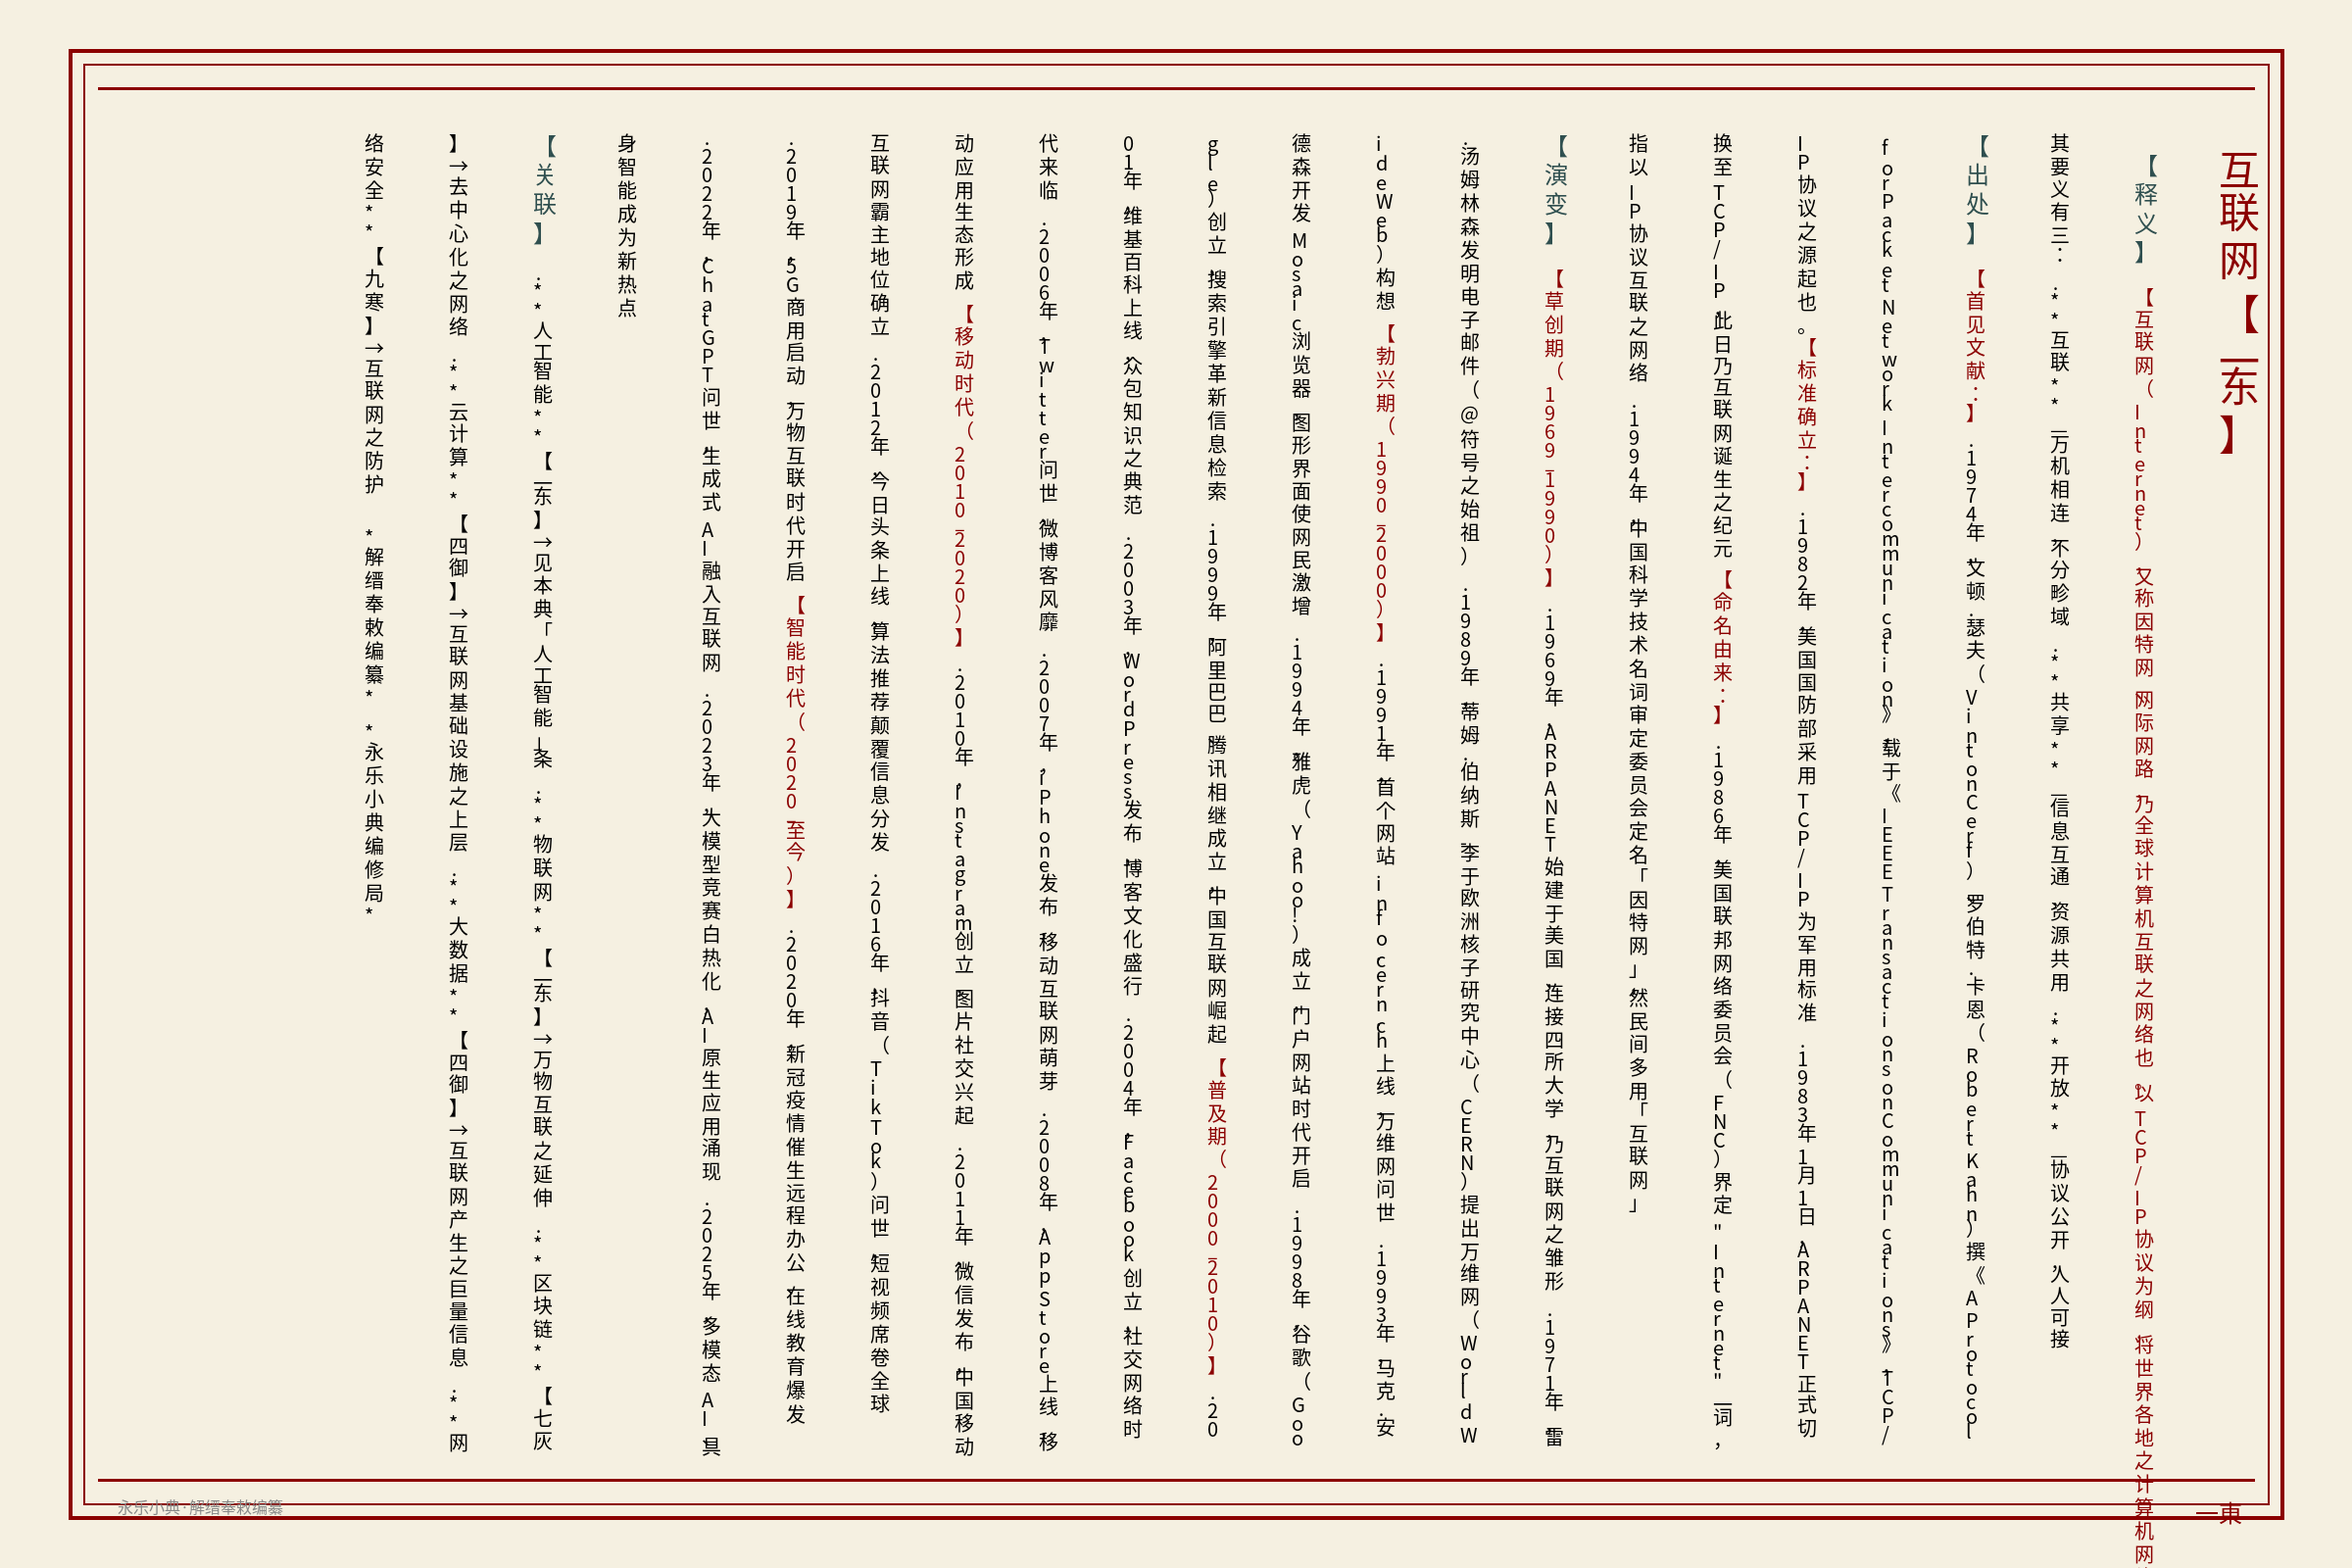
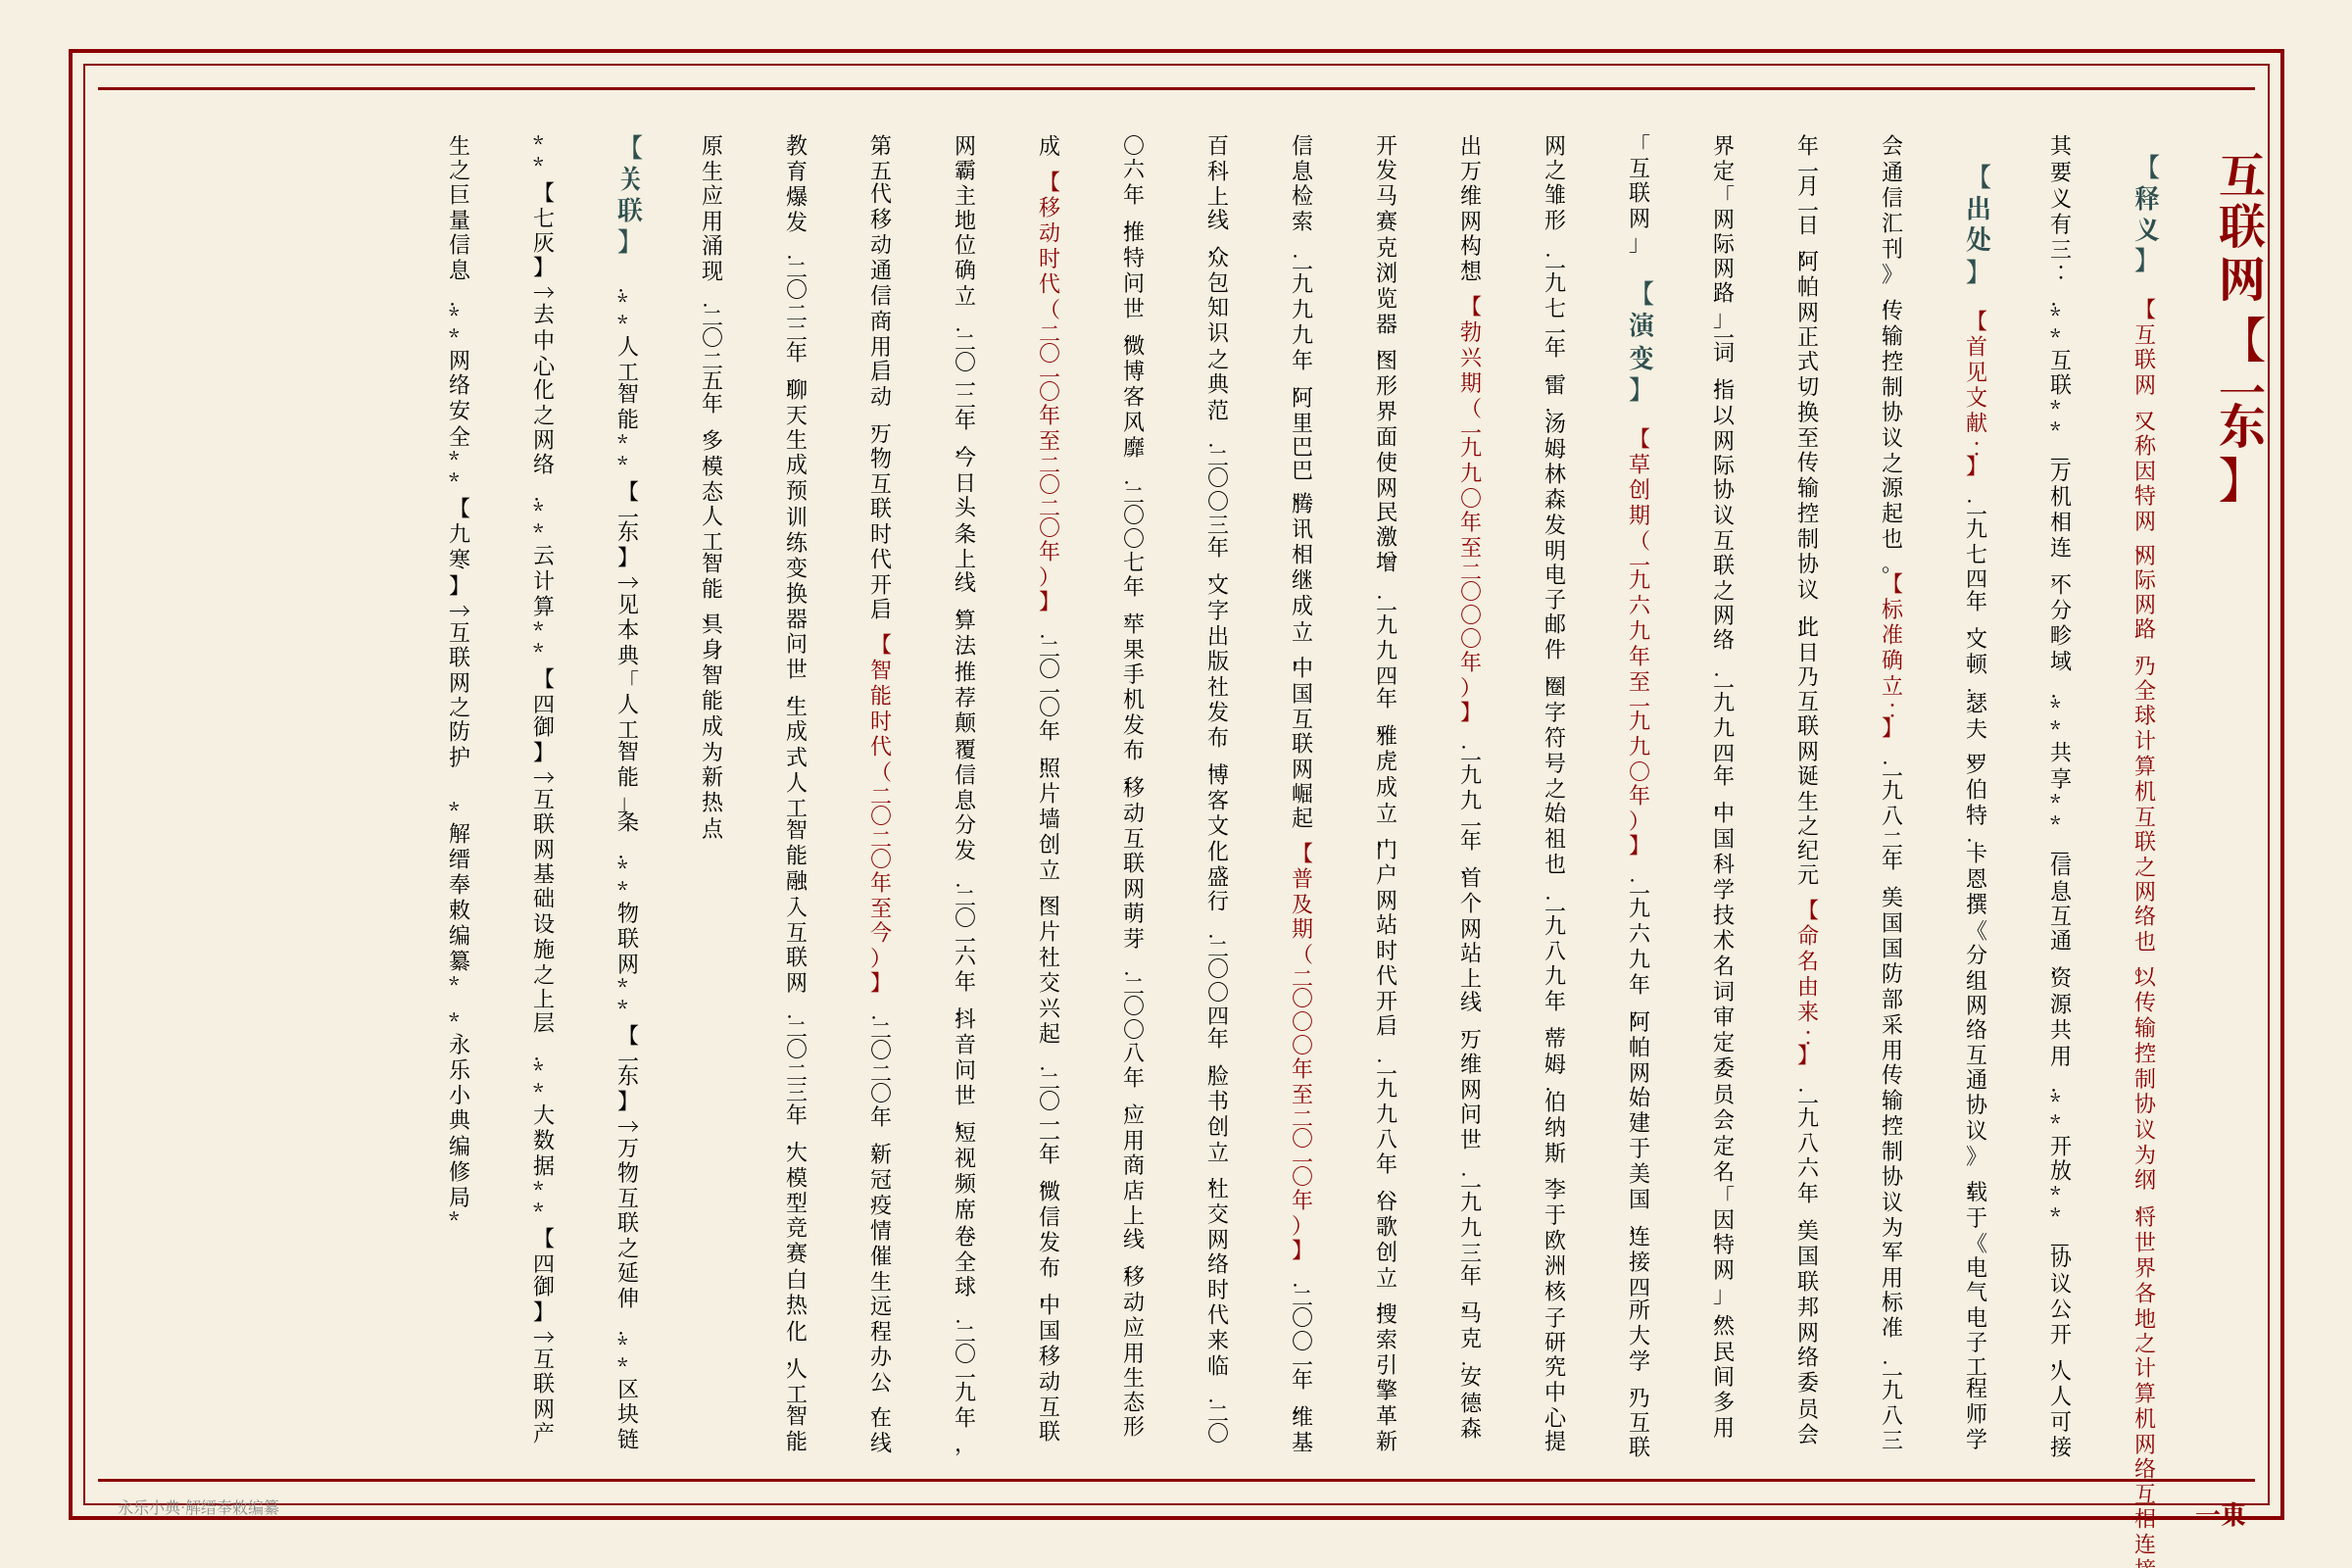
更新：去掉所有拉丁字母，使用宋体，纯中文竖版古籍风格

diff --git a/scripts/yongle_vertical.py b/scripts/yongle_vertical.py
@@ -9,18 +9,26 @@ from PIL import Image, ImageDraw, ImageFont
 import sys
 import os
 
-def get_font(size):
-    """获取中文字体"""
-    font_paths = [
-        '/usr/share/fonts/google-noto-cjk/NotoSansCJK-Regular.ttc',
-        '/usr/share/fonts/truetype/wqy/wqy-zenhei.ttc',
-        '/usr/share/fonts/truetype/wqy/wqy-microhei.ttc',
-        '/System/Library/Fonts/PingFang.ttc',
-        '/System/Library/Fonts/STHeiti Light.ttc',
-        '/mnt/c/Windows/Fonts/simhei.ttf',
-        '/mnt/c/Windows/Fonts/simsun.ttc',
-        '/mnt/c/Windows/Fonts/simkai.ttf',
-    ]
+def get_font(size, style='serif'):
+    """获取中文字体 - 使用宋体(Serif)模拟古籍风格"""
+    if style == 'title':
+        # 标题用粗体宋体
+        font_paths = [
+            '/usr/share/fonts/google-noto-cjk/NotoSerifCJK-Bold.ttc',
+            '/usr/share/fonts/google-noto-cjk/NotoSerifCJK-Regular.ttc',
+        ]
+    elif style == 'body':
+        # 正文用常规宋体
+        font_paths = [
+            '/usr/share/fonts/google-noto-cjk/NotoSerifCJK-Regular.ttc',
+            '/usr/share/fonts/google-noto-cjk/NotoSerifCJK-Light.ttc',
+        ]
+    else:
+        font_paths = [
+            '/usr/share/fonts/google-noto-cjk/NotoSerifCJK-Regular.ttc',
+            '/usr/share/fonts/google-noto-cjk/NotoSansCJK-Regular.ttc',
+            '/usr/share/fonts/truetype/wqy/wqy-zenhei.ttc',
+        ]
     
     for font_path in font_paths:
         if os.path.exists(font_path):
@@ -103,12 +111,12 @@ def create_yongle_vertical_image(input_file, output_file):
     img = Image.new('RGB', (width, height), color='#F5F0E1')
     draw = ImageDraw.Draw(img)
     
-    # 加载字体
-    title_font = get_font(42)
-    subtitle_font = get_font(28)
-    section_font = get_font(24)
-    body_font = get_font(20)
-    small_font = get_font(16)
+    # 加载字体 - 使用宋体模拟古籍
+    title_font = get_font(48, 'title')      # 标题大字
+    subtitle_font = get_font(28, 'body')
+    section_font = get_font(26, 'title')    # 章节标题稍粗
+    body_font = get_font(22, 'body')        # 正文宋体
+    small_font = get_font(16, 'body')
     
     # 边距
     margin_x = 100

diff --git a/chapters/一东/互联网.md b/chapters/一东/互联网.md
@@ -4,7 +4,7 @@
 
 ## 释义
 
-**互联网**（Internet），又称**因特网**、**网际网路**，乃全球计算机互联之网络也。以 TCP/IP 协议为纲，将世界各地之计算机网络互相连接，使信息得以瞬息传遍寰宇。
+**互联网**，又称**因特网**、**网际网路**，乃全球计算机互联之网络也。以传输控制协议为纲，将世界各地之计算机网络互相连接，使信息得以瞬息传遍寰宇。
 
 其要义有三：
 - **互联** — 万机相连，不分畛域
@@ -16,52 +16,52 @@
 ## 出处
 
 **首见文献**：
-- 1974年，文顿·瑟夫（Vinton Cerf）、罗伯特·卡恩（Robert Kahn）撰《A Protocol for Packet Network Intercommunication》，载于《IEEE Transactions on Communications》，TCP/IP 协议之源起也。
+- 一九七四年，文顿·瑟夫、罗伯特·卡恩撰《分组网络互通协议》，载于《电气电子工程师学会通信汇刊》，传输控制协议之源起也。
 
 **标准确立**：
-- 1982年，美国国防部采用 TCP/IP 为军用标准
-- 1983年1月1日，ARPANET 正式切换至 TCP/IP，此日乃互联网诞生之纪元
+- 一九八二年，美国国防部采用传输控制协议为军用标准
+- 一九八三年一月一日，阿帕网正式切换至传输控制协议，此日乃互联网诞生之纪元
 
 **命名由来**：
-- 1986年，美国联邦网络委员会（FNC）界定 "Internet" 一词，指以 IP 协议互联之网络
-- 1994年，中国科学技术名词审定委员会定名「因特网」，然民间多用「互联网」
+- 一九八六年，美国联邦网络委员会界定「网际网路」一词，指以网际协议互联之网络
+- 一九九四年，中国科学技术名词审定委员会定名「因特网」，然民间多用「互联网」
 
 ---
 
 ## 演变
 
-**草创期**（1969–1990）
-- 1969年，ARPANET 始建于美国，连接四所大学，乃互联网之雏形
-- 1971年，雷·汤姆林森发明电子邮件（@ 符号之始祖）
-- 1989年，蒂姆·伯纳斯-李于欧洲核子研究中心（CERN）提出万维网（World Wide Web）构想
+**草创期**（一九六九年至一九九〇年）
+- 一九六九年，阿帕网始建于美国，连接四所大学，乃互联网之雏形
+- 一九七一年，雷·汤姆林森发明电子邮件，圈字符号之始祖也
+- 一九八九年，蒂姆·伯纳斯-李于欧洲核子研究中心提出万维网构想
 
-**勃兴期**（1990–2000）
-- 1991年，首个网站 info.cern.ch 上线，万维网问世
-- 1993年，马克·安德森开发 Mosaic 浏览器，图形界面使网民激增
-- 1994年，雅虎（Yahoo!）成立，门户网站时代开启
-- 1998年，谷歌（Google）创立，搜索引擎革新信息检索
-- 1999年，阿里巴巴、腾讯相继成立，中国互联网崛起
+**勃兴期**（一九九〇年至二〇〇〇年）
+- 一九九一年，首个网站上线，万维网问世
+- 一九九三年，马克·安德森开发马赛克浏览器，图形界面使网民激增
+- 一九九四年，雅虎成立，门户网站时代开启
+- 一九九八年，谷歌创立，搜索引擎革新信息检索
+- 一九九九年，阿里巴巴、腾讯相继成立，中国互联网崛起
 
-**普及期**（2000–2010）
-- 2001年，维基百科上线，众包知识之典范
-- 2003年，WordPress 发布，博客文化盛行
-- 2004年，Facebook 创立，社交网络时代来临
-- 2006年，Twitter 问世，微博客风靡
-- 2007年，iPhone 发布，移动互联网萌芽
-- 2008年，App Store 上线，移动应用生态形成
+**普及期**（二〇〇〇年至二〇一〇年）
+- 二〇〇一年，维基百科上线，众包知识之典范
+- 二〇〇三年，文字出版社发布，博客文化盛行
+- 二〇〇四年，脸书创立，社交网络时代来临
+- 二〇〇六年，推特问世，微博客风靡
+- 二〇〇七年，苹果手机发布，移动互联网萌芽
+- 二〇〇八年，应用商店上线，移动应用生态形成
 
-**移动时代**（2010–2020）
-- 2010年，Instagram 创立，图片社交兴起
-- 2011年，微信发布，中国移动互联网霸主地位确立
-- 2012年，今日头条上线，算法推荐颠覆信息分发
-- 2016年，抖音（TikTok）问世，短视频席卷全球
-- 2019年，5G 商用启动，万物互联时代开启
+**移动时代**（二〇一〇年至二〇二〇年）
+- 二〇一〇年，照片墙创立，图片社交兴起
+- 二〇一一年，微信发布，中国移动互联网霸主地位确立
+- 二〇一二年，今日头条上线，算法推荐颠覆信息分发
+- 二〇一六年，抖音问世，短视频席卷全球
+- 二〇一九年，第五代移动通信商用启动，万物互联时代开启
 
-**智能时代**（2020–至今）
-- 2020年，新冠疫情催生远程办公、在线教育爆发
-- 2022年，ChatGPT 问世，生成式 AI 融入互联网
-- 2023年，大模型竞赛白热化，AI 原生应用涌现
-- 2025年，多模态 AI、具身智能成为新热点
+**智能时代**（二〇二〇年至今）
+- 二〇二〇年，新冠疫情催生远程办公、在线教育爆发
+- 二〇二二年，聊天生成预训练变换器问世，生成式人工智能融入互联网
+- 二〇二三年，大模型竞赛白热化，人工智能原生应用涌现
+- 二〇二五年，多模态人工智能、具身智能成为新热点
 
 ---
 
